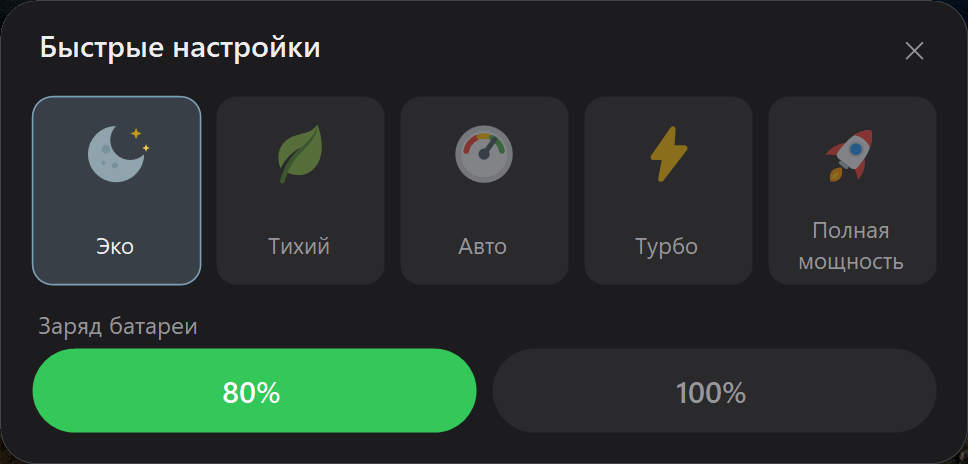
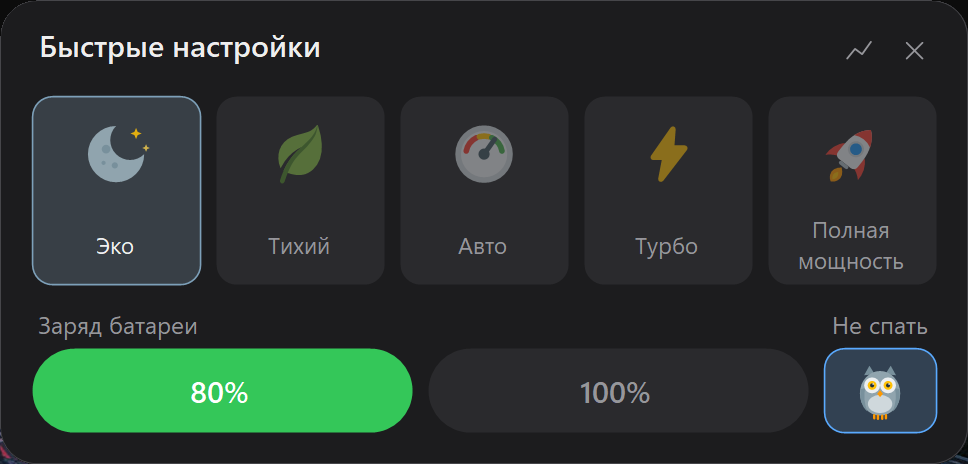
docs: refresh quick panel screenshot (owl mode), add Monitor shot
Quick panel screenshot now shows the owl 'keep awake' cell; add a screenshot of the Monitor widget (power/CPU/RAM) and reference both in the README.

diff --git a/README.md b/README.md
@@ -18,8 +18,16 @@
   <img src="docs/img/quick-panel.png" width="560" alt="Панель быстрых настроек">
 </p>
 
-*Панель быстрых настроек (удержание кнопки Mi): пять режимов производительности
-и лимит заряда. Значок в трее меняется по активному режиму:*
+*Панель быстрых настроек (удержание кнопки Mi): пять режимов производительности,
+лимит заряда и «режим совы» (не спать).*
+
+<p align="center">
+  <img src="docs/img/monitor.png" width="440" alt="Окно «Монитор»">
+</p>
+
+*Окно «Монитор»: живые графики потребления (Вт), загрузки CPU и RAM.*
+
+*Значок в трее меняется по активному режиму:*
 
 <p align="center">
   <img src="docs/img/tray.png" width="440" alt="Значок в трее">